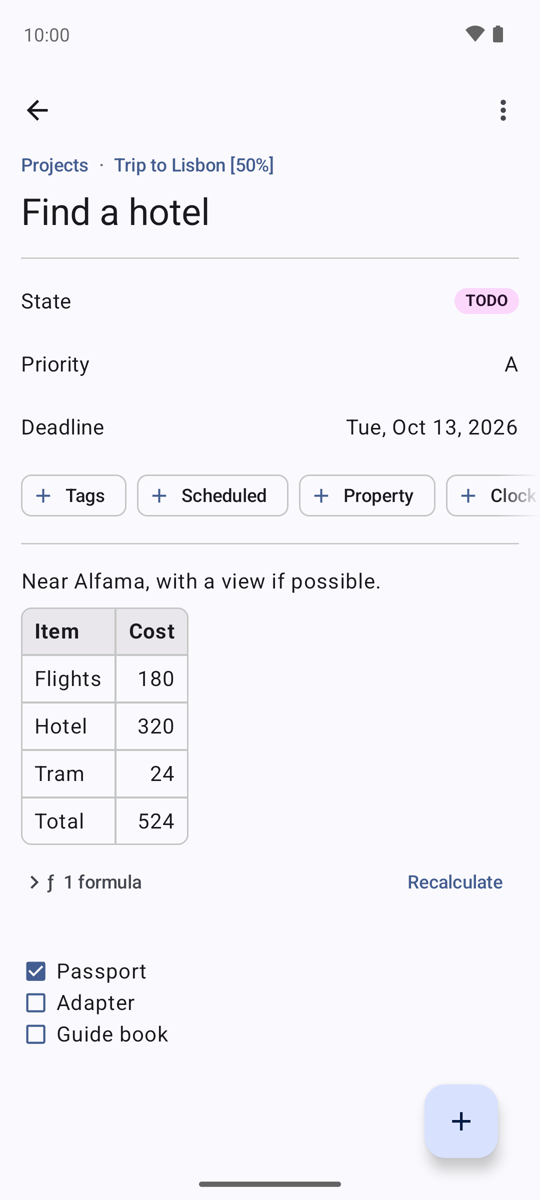
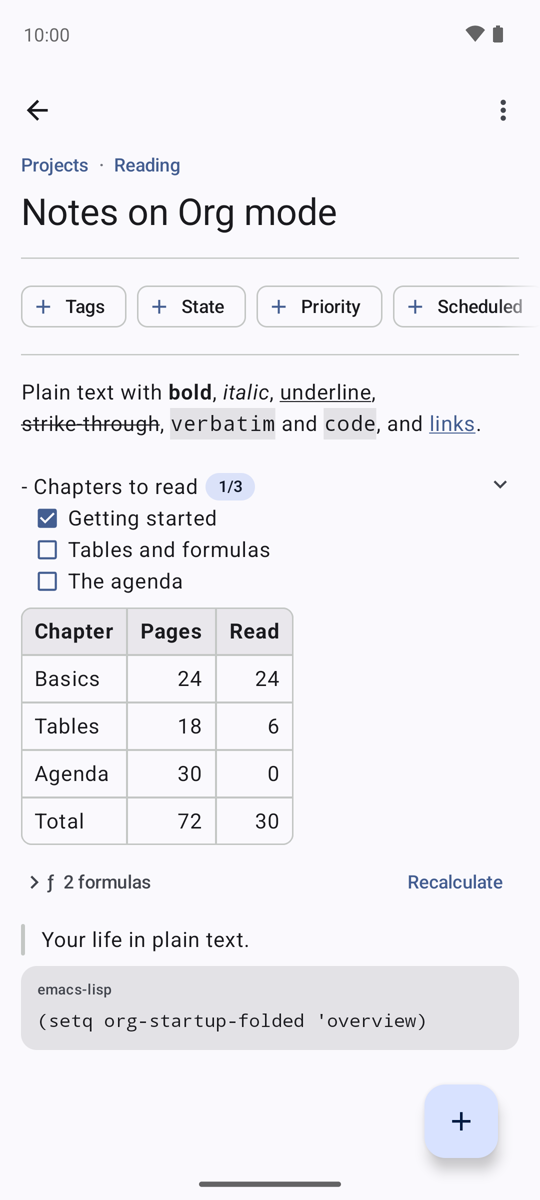
README: a richer note screenshot

diff --git a/README.md b/README.md
@@ -7,7 +7,7 @@ An Android app for [Org mode](https://orgmode.org) notes, inspired by
 
 <p>
   <img src="docs/screenshots/notebook.png" alt="A notebook" width="200">
-  <img src="docs/screenshots/note.png" alt="A note with a table and checkboxes" width="200">
+  <img src="docs/screenshots/note.png" alt="A note with formatting, checkboxes, a table with formulas and blocks" width="200">
   <img src="docs/screenshots/edit.png" alt="Editing a note, with the toolbar over the keyboard" width="200">
   <img src="docs/screenshots/agenda.png" alt="The agenda" width="200">
 </p>
